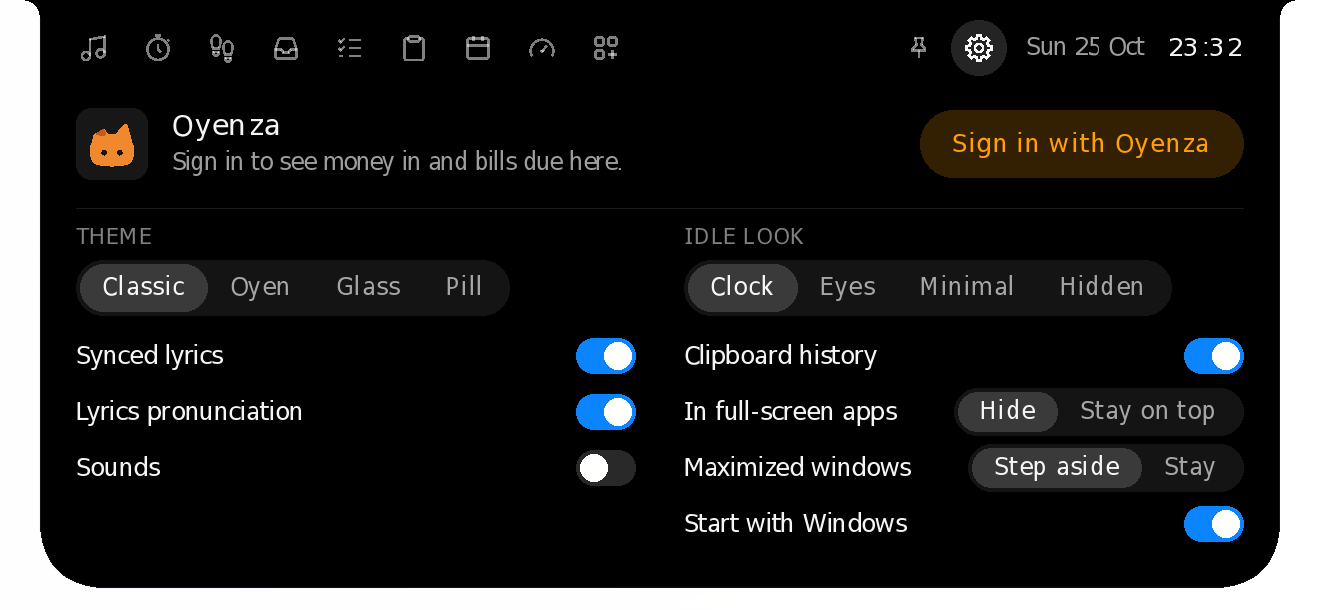
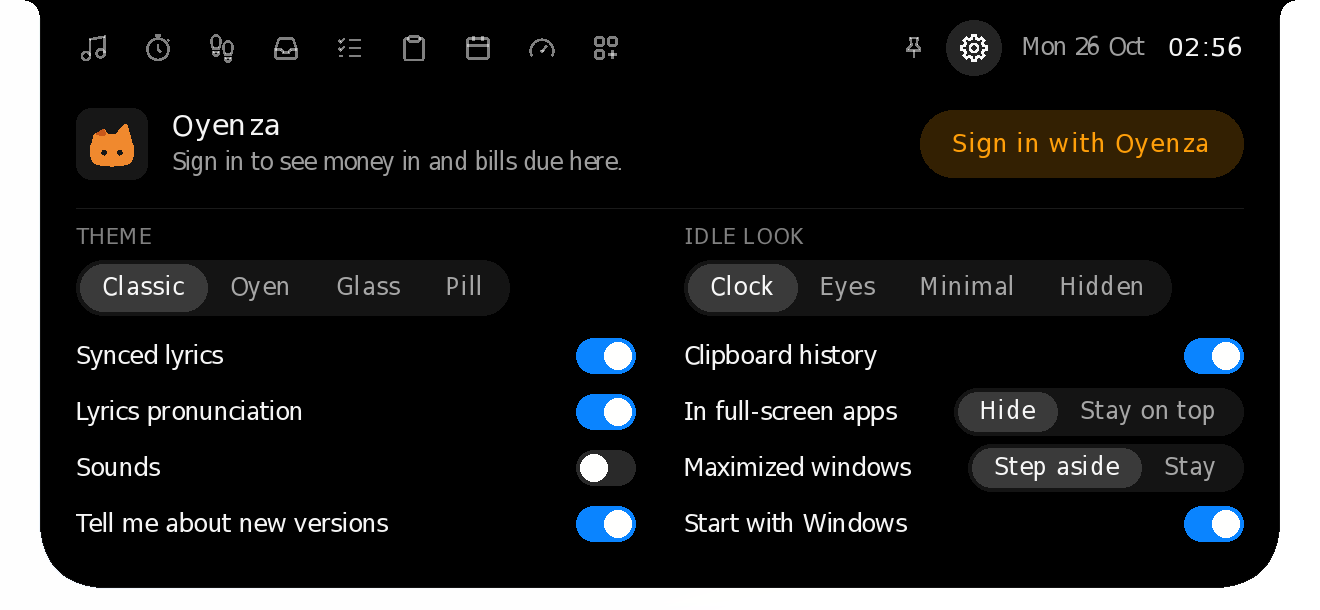
Release 0.2.6
The version in the 7 files, docs/release-notes/v0.2.6.md, and the website:
the one band is "New in 0.2.6." with New versions, told; Install from the
island; and A Mac installer first; the hero line and sidebar row; the Mac
install step names the DMG's new window; fallback version 0.2.6; the four
Settings pictures (Classic and Oyen, plain and Stay on top) retaken from
this build's 200 % self-test for the new "Tell me about new versions"
switch, and their alt text. Ships #108, #105 and #106 (#109).

diff --git a/site/index.html b/site/index.html
@@ -632,7 +632,7 @@ dialog.more-sheet::backdrop { background: rgba(0, 0, 0, 0.42); -webkit-backdrop-
     <div class="side-sec">
       <p class="side-group">Overview</p>
       <a class="side-item" href="#top" data-k="home start download hero notch island"><i class="ic" style="--c:#1d1d1f"><svg class="ico"><use href="#i-screen"/></svg></i><span>A living notch</span></a>
-      <a class="side-item" href="#new" data-k="new release 0.2.5 latest changes steps health oyenza sign in mac headphones full screen power step aside maximized browser tabs sing along romaji lyrics mac prayer script reader teleprompter games power"><i class="ic" style="--c:#bf4800"><svg class="ico"><use href="#i-spark"/></svg></i><span>New in 0.2.5</span></a>
+      <a class="side-item" href="#new" data-k="new release 0.2.6 latest changes update available new version install now next start updater mac installer dmg window steps health oyenza sign in mac headphones full screen power step aside maximized browser tabs sing along romaji lyrics mac prayer script reader teleprompter games power"><i class="ic" style="--c:#bf4800"><svg class="ico"><use href="#i-spark"/></svg></i><span>New in 0.2.6</span></a>
       <a class="side-item" href="#highlights" data-k="best gallery overview"><i class="ic" style="--c:#ff9f0a"><svg class="ico"><use href="#i-spark"/></svg></i><span>Highlights</span></a>
       <a class="side-item" href="#features" data-k="rest idle music timer volume charging headphones bluetooth money clock eyes prayer countdown"><i class="ic" style="--c:#636366"><svg class="ico"><use href="#i-island"/></svg></i><span>While it rests</span></a>
     </div>
@@ -728,9 +728,9 @@ dialog.more-sheet::backdrop { background: rgba(0, 0, 0, 0.42); -webkit-backdrop-
           <div class="hero-copy">
             <h1 class="t-hero-eyebrow">Oyenza Studio</h1>
             <p class="t-hero">A living notch.</p>
-            <a class="t-avail" href="#new">New in 0.2.5: your steps from your phone, and Oyenza sign-in on the Mac.</a>
+            <a class="t-avail" href="#new">New in 0.2.6: the island tells you when a new version is out, and installs it on Windows.</a>
             <div class="buybox">
-              <div><b>Free for Windows and Mac</b><span class="fine">Open source · Windows <span data-release="size">2.5&nbsp;MB</span> · Mac <span data-release="mac-size">3.9&nbsp;MB</span> · <a class="notes" data-release="notes" href="https://github.com/lucacadalora/oyenza-studio/releases/latest">What's new in <span data-release="version">0.2.5</span></a></span></div>
+              <div><b>Free for Windows and Mac</b><span class="fine">Open source · Windows <span data-release="size">2.5&nbsp;MB</span> · Mac <span data-release="mac-size">3.9&nbsp;MB</span> · <a class="notes" data-release="notes" href="https://github.com/lucacadalora/oyenza-studio/releases/latest">What's new in <span data-release="version">0.2.6</span></a></span></div>
               <a class="btn dl-primary" href="https://github.com/lucacadalora/oyenza-studio/releases/latest/download/Oyenza-Studio-Setup.exe">Download</a>
             </div>
             <a class="link hero-other dl-other" data-release="mac-link" href="https://github.com/lucacadalora/oyenza-studio/releases/latest/download/Oyenza-Studio-Mac.dmg">Download for Mac</a>
@@ -749,8 +749,11 @@ dialog.more-sheet::backdrop { background: rgba(0, 0, 0, 0.42); -webkit-backdrop-
   </section>
 
   <section class="sec band" id="new" aria-labelledby="new-title">
-    <div class="content head rv"><h2 class="t-l" id="new-title">New in 0.2.5.</h2></div>
+    <div class="content head rv"><h2 class="t-l" id="new-title">New in 0.2.6.</h2></div>
     <div class="content news">
+      <a class="news-tile rv" href="#settings"><p class="t-card">New versions, told</p><p class="t-tile">The island says when a new version is out. Hide it, or open the Update sheet to see what's new.</p></a>
+      <a class="news-tile rv" href="#settings"><p class="t-card">Install from the island</p><p class="t-tile">On Windows, the new version downloads first. Then Install now, or Install on next start.</p></a>
+      <a class="news-tile rv" href="#get"><p class="t-card">A Mac installer</p><p class="t-tile">The Mac download opens as a window: drag Oyenza Studio into Applications.</p></a>
       <a class="news-tile rv" href="#health"><p class="t-card">Your steps</p><p class="t-tile">Turn on Show on Oyenza Studio in Oyenza on your phone, and your week's steps show on the Health page.</p></a>
       <a class="news-tile rv" href="#oyenza"><p class="t-card">Oyenza on the Mac</p><p class="t-tile">Sign in on a Mac too: money notices, bills due and your last 7 days, as on Windows.</p></a>
       <a class="news-tile rv" href="#mac"><p class="t-card">More of Windows on the Mac</p><p class="t-tile">Headphone pop-ups, out of the way in full-screen apps, and Power on a Mac mini, Studio or iMac.</p></a>
@@ -1033,7 +1036,7 @@ dialog.more-sheet::backdrop { background: rgba(0, 0, 0, 0.42); -webkit-backdrop-
       <div class="panel rv-zoom" data-scene="par" style="--band:28px">
         <div class="sky-layer"></div>
         <div class="isl">
-          <img class="look-classic" src="assets/shots/classic/page-settings.webp" alt="The Settings page: Sign in with Oyenza at the top, then the theme, the idle look, five switches, a Hide or Stay on top choice for full-screen apps and a Step aside or Stay choice for maximized windows" width="660" height="305" loading="lazy">
+          <img class="look-classic" src="assets/shots/classic/page-settings.webp" alt="The Settings page: Sign in with Oyenza at the top, then the theme, the idle look, six switches (Tell me about new versions among them), a Hide or Stay on top choice for full-screen apps and a Step aside or Stay choice for maximized windows" width="660" height="305" loading="lazy">
           <img class="look-oyen" src="assets/shots/oyen/page-settings.webp" alt="The Settings page in the Oyen theme" width="660" height="305" loading="lazy">
         </div>
       </div>
@@ -1646,7 +1649,7 @@ dialog.more-sheet::backdrop { background: rgba(0, 0, 0, 0.42); -webkit-backdrop-
     <h2 class="t-m" id="m-install-mac-t">Ready in under a minute.</h2>
     <ol>
       <li><b>Download the app:</b> Oyenza-Studio-Mac.dmg, from the latest release. One app for Apple silicon and Intel.</li>
-      <li><b>Drag it into Applications.</b> Open the DMG and drag Oyenza Studio into the Applications folder.</li>
+      <li><b>Drag it into Applications.</b> Open the DMG: its window shows Oyenza Studio and your Applications folder. Drag the one onto the other.</li>
       <li><b>Allow it the first time:</b> it isn't signed with an Apple Developer ID yet, so macOS warns you the first time you open it. Click Done, then open System Settings › Privacy &amp; Security and click Open Anyway.</li>
     </ol>
     <h4>Where things live</h4>

diff --git a/docs/release-notes/v0.2.6.md b/docs/release-notes/v0.2.6.md
@@ -1,0 +1,17 @@
+**Oyenza Studio tells you when a new version is out.** About two minutes after it starts, and then every 12 hours, it reads one small signed file from studio.oyenza.com. When a newer version is out, the island says **Update available** with the version and a **Hide** button; click it for the Update sheet with what's new. Until you update, the right-click menu starts with **Update to Oyenza Studio …**. It never looks while the computer is locked, the screen is off or battery saver is on. To turn it off, switch off **Tell me about new versions** in Settings. A copy from the Microsoft Store gets its updates from the Store instead.
+
+**Install from the island (Windows).** Once a new version is out, Oyenza Studio downloads its Setup first (about 2.5 MB), keeps it only if it matches the signed file, and then the Update sheet offers **Install now** or **Install on next start**. Install now closes the island, installs the new version and opens it again; your settings, data, add-ons and Oyenza sign-in stay. On a Mac, the sheet downloads the new DMG.
+
+**A proper Mac installer.** The Mac download opens as an installer window: drag Oyenza Studio into Applications. The version shows in the window's title.
+
+This is the first version that can tell you about the next one. Copies on 0.2.5 or older can't, so update this once by hand.
+
+Everything new in 0.2.5 is here too: your steps from your phone on the Health page, and on the Mac, Oyenza sign-in, headphone pop-ups, stepping aside for full-screen apps and Power. See the [0.2.5 notes](https://github.com/lucacadalora/oyenza-studio/releases/tag/v0.2.5).
+
+**Install:** download `Oyenza-Studio-Setup.exe` and run it. It installs just for you (no admin rights) and can start with Windows. Or unzip the portable zip and run `Poni\poni.exe`. Links to `Oyen-Poni-Setup.exe` keep working: every release carries that file too.
+
+**On a Mac:** open `Oyenza-Studio-Mac.dmg` and drag Oyenza Studio into Applications. It isn't signed with an Apple Developer ID yet, so the first time macOS warns you, click **Done**, then open **System Settings → Privacy & Security** and click **Open Anyway**.
+
+**Upgrading:** run the new installer. It upgrades in place and keeps your settings, data, add-ons and Oyenza sign-in.
+
+The build isn't code-signed yet, so Windows SmartScreen may say "Windows protected your PC". Click **More info → Run anyway**.
